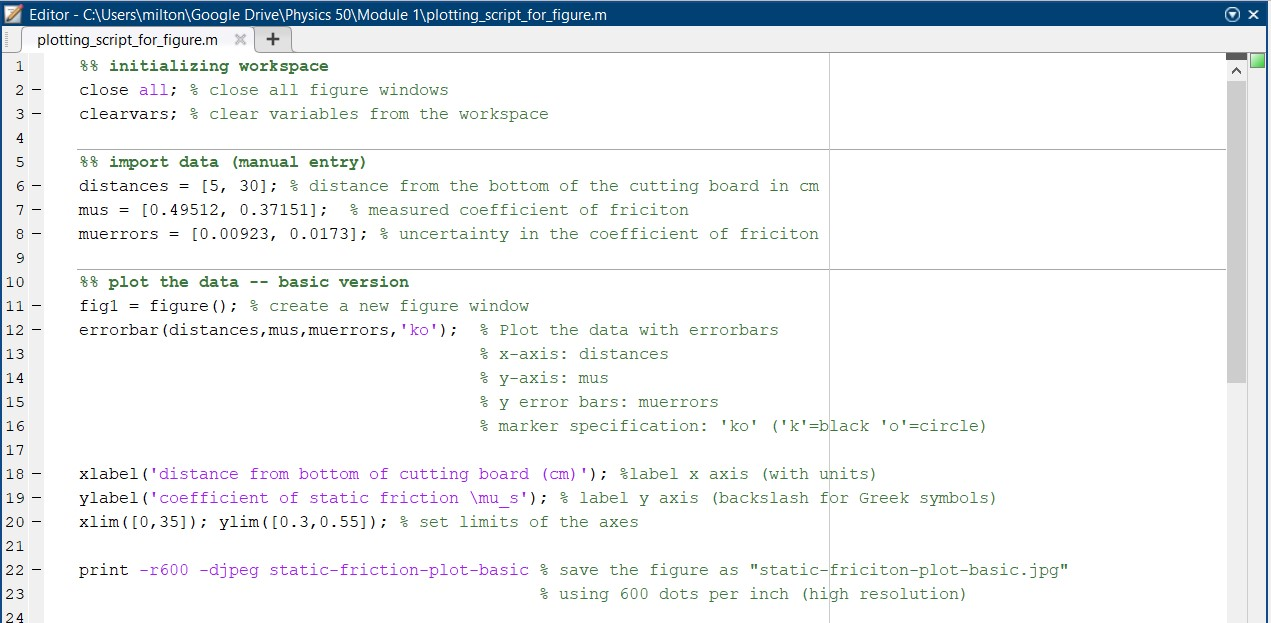
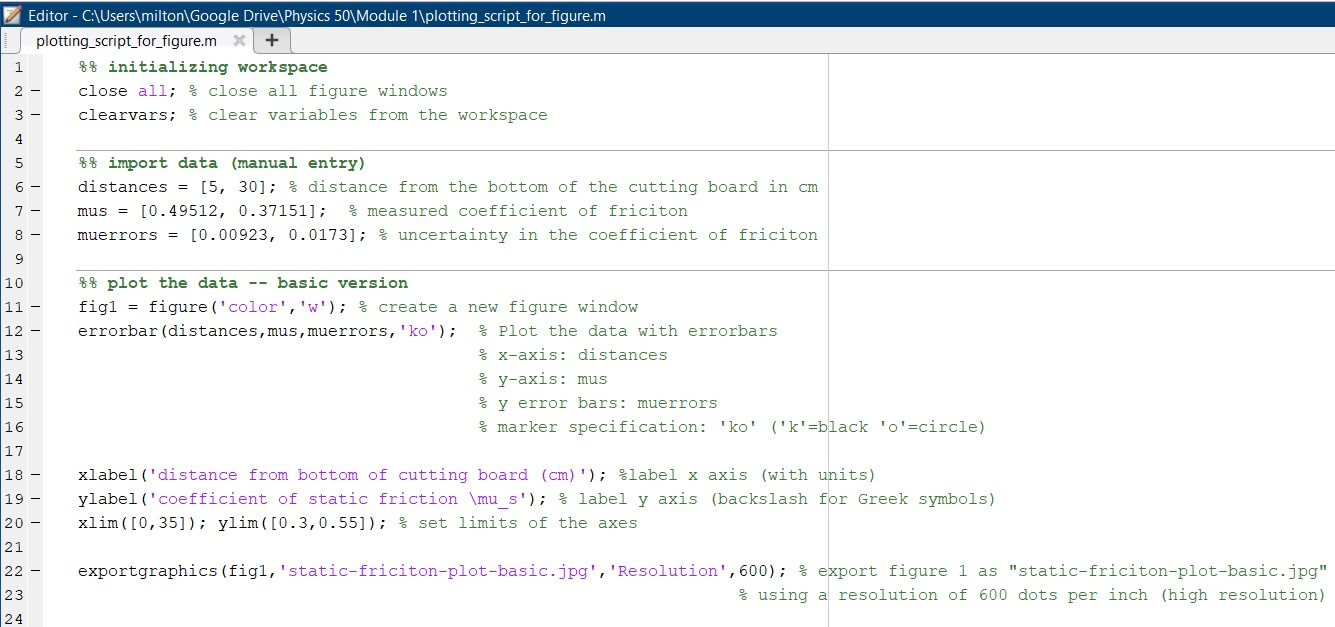
update plotting-guide and script

diff --git a/docs/plotting_script_for_figure.m b/docs/plotting_script_for_figure.m
@@ -8,7 +8,7 @@ mus = [0.49512, 0.37151];  % measured coefficient of friciton
 muerrors = [0.00923, 0.0173]; % uncertainty in the coefficient of friciton
 
 %% plot the data -- basic version
-fig1 = figure(); % create a new figure window
+fig1 = figure('color','w'); % create a new figure window
 errorbar(distances,mus,muerrors,'ko');  % Plot the data with errorbars
                                         % x-axis: distances
                                         % y-axis: mus
@@ -19,11 +19,11 @@ xlabel('distance from bottom of cutting board (cm)'); %label x axis (with units)
 ylabel('coefficient of static friction \mu_s'); % label y axis (backslash for Greek symbols)
 xlim([0,35]); ylim([0.3,0.55]); % set limits of the axes
 
-print -r600 -djpeg static-friction-plot-basic % save the figure as "static-friciton-plot-basic.jpg" 
-                                              % using a resolution of 600 dots per inch (high resolution)
+exportgraphics(fig1,'static-friciton-plot-basic.jpg','Resolution',600); % export figure 1 as "static-friciton-plot-basic.jpg" 
+                                                                  % using a resolution of 600 dots per inch (high resolution)
 
 %% plot the data -- improved version, considering "salience" & "simplicity"
-fig2 = figure(); % create a new figure window
+fig2 = figure('color','w'); % create a new figure window
 errorbar(distances,mus,muerrors,'ko','MarkerFaceColor','k','LineWidth',1,'MarkerSize',7); % plot the data
                     % x-axis: distances
                     % y-axis: mus
@@ -40,5 +40,5 @@ xlim([0,35]); ylim([0.3,0.55]); % set limits of the axes
 set(gca,'XTick',[0, 10, 20, 30]); % set the x-tick locations manually (reduce number of ticks for "simplicity")
 set(gca,'YTick',[0.3, 0.4, 0.5]); % set the y-tick locations manually (reduce number of ticks for "simplicity")
 
-print -r600 -djpeg static-friction-plot-improved % save the figure as "static-friciton-plot-improved.jpg" 
-                                                 % using a resolution of 600 dots per inch (high resolution)
+exportgraphics(fig2,'static-friciton-plot-improved.jpg','Resolution',600); % export figure 2 as "static-friciton-plot-improved.jpg" 
+                                                                           % using a resolution of 600 dots per inch (high resolution)

diff --git a/docs/plotting-guide.md b/docs/plotting-guide.md
@@ -23,10 +23,11 @@ And if you've never used a MATLAB "script" before, this 3-minute video gives an 
 ----------
 #### Plotting the example data
 
-Now that you have an idea of how to run a MATLAB script, download this [MATLAB script for our example data plotted with error bars](plotting_script_for_figure.m){:target="_blank"}. Make sure you save the file into a meaningful directory (e.g. Ph50/Module1). If you open the script and run it in MATLAB, two figures should pop up (one might be behind the other):
+Now that you have an idea of how to run a MATLAB script, download this [MATLAB script for our example data plotted with error bars](plotting_script_for_figure.m){:target="_blank"}. Make sure you save the file into a meaningful directory (e.g. Ph50/Module1). If you open the script and run it in MATLAB, two figures should pop up (one might be behind the other) that are two versions of the same plot:
 
 [*Click here to open image in a new tab*
 ![the two figure windows that pop up](images/figure-windows.jpg)](images/figure-windows.jpg){:target="_blank"}
+*Note: the font sizes of your plots might look slightly different than the ones shown here.*
 
 Before we dig into the details of the MATLAB code, can you spot the differences between the two plots? 
 
@@ -104,7 +105,7 @@ The script saves the result as a jpeg image "static-friction-plot-improved.jpg" 
 <img src="images/static-friction-plot-improved.jpg" alt="Improved plot with error bars" width=350 />
 
 
-**Important: Now that you understand some ways to customize your plot in MATLAB, you can delete the code for the "Basic" version (lines 10-24). You will need to alter the remaining code for plotting your data. You will need to import your own data, and you might also need to tweak some of the improvements. If you can't see your data points, then check that your data points fall within the "xrange" and "yrange" you are using.**
+**Important: Now that you understand some ways to customize your plot in MATLAB, you can delete the code for the "Basic" version (lines 10-24). You will need to alter the remaining code for plotting your data. You will need to import your own data, and you might also need to tweak some of the improvements. If you can't see your data points, then check that your data points fall within the "xlim" and "ylim" you are using.**
 
 
 
